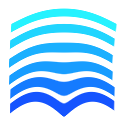
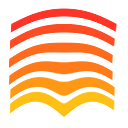
Theme tweak. Translations. Minor fixes.

diff --git a/src/components/JobTable.vue b/src/components/JobTable.vue
@@ -3,20 +3,20 @@
     <table class="table table-sm shadow-sm align-middle bg-white table-bordered table-hover">
       <thead class="bg-light">
       <tr>
-        <th style="width: 20px">Pid</th>
-        <th style="width: 50px">Channel</th>
-        <th class="align-bottom" style="width: 50px">File</th>
-        <th class="align-bottom d-none d-lg-table-cell" style="width: 60px">Task</th>
-        <th class="align-bottom" style="width:70px">Progress</th>
-        <th class="align-bottom" style="width:110px">Created</th>
-        <th class="align-bottom" style="width:50px">Destroy</th>
+        <th style="width: 20px">{{ $t("jobTable.col.pid") }}</th>
+        <th style="width: 50px">{{ $t("jobTable.col.channel") }}</th>
+        <th class="align-bottom" style="width: 50px">{{ $t("jobTable.col.file") }}</th>
+        <th class="align-bottom d-none d-lg-table-cell" style="width: 60px">{{ $t("jobTable.col.task") }}</th>
+        <th class="align-bottom" style="width:70px">{{ $t("jobTable.col.progress") }}</th>
+        <th class="align-bottom" style="width:110px">{{ $t("jobTable.col.created") }}</th>
+        <th class="align-bottom" style="width:50px">{{ $t("jobTable.col.destroy") }}</th>
       </tr>
       </thead>
       <tbody>
       <tr :key="i" v-for="(job, i) in jobs" :class="{'table-success': job.active}">
         <td class="text-end">
           <div v-if="job.active" style="width: 1rem; height: 1rem" class="spinner-border text-success" role="status">
-            <span class="visually-hidden">Loading...</span>
+            <span class="visually-hidden">{{ $t("jobTable.loading") }}</span>
           </div>
           {{ job.pid }}
         </td>
@@ -39,7 +39,7 @@
 
       <tr v-if="jobs.length === 0">
         <td colspan="7" class="text-center">
-          <h5 class="p-3">No Jobs</h5>
+          <h5 class="p-3">{{ $t("jobTable.noJobs") }}</h5>
         </td>
       </tr>
       </tbody>

diff --git a/src/components/navs/NavTop.vue b/src/components/navs/NavTop.vue
@@ -2,8 +2,8 @@
   <nav class="navbar navbar-expand-lg sticky-top shadow-sm m-0 d-flex bg-primary justify-content-between">
     <div class="container-fluid">
       <a class="navbar-brand d-none d-lg-block text-white fw-bold" href="/streams">
+        <img class="px-2" style="height: 28px; width: auto" src="/icon.png"/>
         <span class="d-none d-lg-inline p-2">{{ title }}</span>
-        <img style="height: 28px; width: auto" src="/icon.png"/>
       </a>
 
       <div class="navbar-collapse collapse px-2 mb-1" :class="{'d-none': collapseNav}" id="collapsibleNavbar">
@@ -37,7 +37,9 @@
       <button @click="$router.push('/jobs')" v-if="jobs.length > 0" type="button" class="position-relative me-2 btn btn-info" data-bs-toggle="dropdown" aria-expanded="false">
         {{ $t("menu.jobs") }} ({{ jobs.length }})
         <div v-if="jobs.length > 0" class="spinner-border text-dark spinner-border-sm" role="status">
-          <span class="visually-hidden">Loading...</span>
+          <span class="visually-hidden">
+            {{ $t("navtop.jobsLoading") }}
+          </span>
         </div>
       </button>
 
@@ -48,10 +50,10 @@
         </button>
         <button v-else class="btn btn-danger blink" @click="record(false)">
           <i class="bi bi-stop-fill"></i>
-          stop
+          {{ $t("navtop.stopRecording") }}
         </button>
         <button class="btn btn-success text-white ms-2" @click="$emit('add')">
-          Add Stream
+          {{ $t("navtop.addStream") }}
         </button>
       </div>
 
@@ -67,8 +69,8 @@
 import { defineComponent } from 'vue';
 import { DiskInfo, InfoApi } from '@/services/api/v1/infoApi';
 import { RecordingApi } from '@/services/api/v1/recordingApi';
-import { AxiosError } from 'axios';
 import { JobResponse } from '@/services/api/v1/jobApi';
+import { AxiosError } from 'axios';
 
 const recording = new RecordingApi();
 const info = new InfoApi();

diff --git a/src/views/SortView.vue b/src/views/SortView.vue
@@ -4,9 +4,12 @@
       <div class="col">
         <div class="d-flex justify-content-end">
           <div class="d-flex justify-content-center me-3">
+            <!-- filter row -->
             <div class="row g-3 align-items-center">
               <div class="col-auto">
-                <label for="limit" class="col-form-label fw-bold">Order By</label>
+                <label for="limit" class="col-form-label fw-bold">
+                  {{ $t("filter.label.orderBy") }}
+                </label>
               </div>
               <div class="col-auto">
                 <select class="form-select" v-model="filterColumn" @change="routeFilter">
@@ -14,7 +17,9 @@
                 </select>
               </div>
               <div class="col-auto">
-                <label for="limit" class="col-form-label fw-bold">Order</label>
+                <label for="limit" class="col-form-label fw-bold">
+                  {{ $t("filter.label.order") }}
+                </label>
               </div>
               <div class="col-auto">
                 <select class="form-select text-capitalize" v-model="filterOrder" @change="routeFilter">
@@ -22,7 +27,9 @@
                 </select>
               </div>
               <div class="col-auto">
-                <label for="limit" class="col-form-label fw-bold">Limit</label>
+                <label for="limit" class="col-form-label fw-bold">
+                  {{ $t("filter.label.limit") }}
+                </label>
               </div>
               <div class="col-auto">
                 <select id="limit" class="form-select" v-model="filterLimit" @change="routeFilter">
@@ -30,6 +37,7 @@
                 </select>
               </div>
             </div>
+            <!-- filter row -->
           </div>
           <button class="btn btn-primary" @click="routeFilter" v-if="$route.params.type==='random'">
             Refresh

diff --git a/src/i18n/messages.ts b/src/i18n/messages.ts
@@ -2,8 +2,61 @@ import en from './en';
 import de from './de';
 
 export const messages = {
-  en,
-  de,
+  en: {
+    menu: {
+      streams: 'Streams',
+      filter: 'Filter',
+      random: 'Random',
+      favs: 'Favs',
+      jobs: 'Jobs',
+      admin: 'Admin'
+    },
+    recording: {
+      durationMinutes: '{0}min',
+      ago: '{0}',
+      bitRate: 'Bitrate',
+      bitRateMBit: '{0}MBit',
+      resolution: 'Resolution',
+      started: 'Created',
+      convert: 'Convert'
+    },
+    navtop: {
+      addStream: 'Add Stream',
+      stopRecording: 'Stop',
+      jobsLoading: 'Loading...'
+    },
+    videoView: {
+      button: {
+        destroy: 'Delete'
+      }
+    },
+    filter: {
+      label: {
+        orderBy: 'Order By',
+        order: 'Order',
+        limit: 'Limit'
+      }
+    },
+    job: {
+      tab: {
+        workerJobs: 'Worker Jobs',
+        recordings: 'Recordings'
+      }
+    },
+    jobTable: {
+      col: {
+        pid: 'PID',
+        channel: 'Channel',
+        file: 'File',
+        task: 'Task',
+        progress: 'Progress',
+        created: 'Created',
+        destroy: 'Destroy',
+      },
+      loading: 'Loading...',
+      noJobs: 'No Jobs'
+    }
+  },
 };
 
 export const datetimeFormats = {

diff --git a/src/views/StreamItemView.vue b/src/views/StreamItemView.vue
@@ -23,18 +23,16 @@
     </div>
 
     <nav class="navbar fixed-bottom navbar-light bg-light border-info border-top">
-      <div class="container-fluid justify-content-between w-100">
+      <div class="container-fluid justify-content-end w-100">
         <div class="btn-group">
           <button v-if="selectedRecordings.length > 0" class="btn btn-danger" @click="destroySelection">Delete
             selected
           </button>
-        </div>
 
-        <div class="btn-group">
-          <button class="btn btn-danger me-3" @click="deleteChannel">
+          <button class="btn btn-danger me-3" @click="deleteChannel" v-if="selectedRecordings.length == 0">
             Delete Channel
           </button>
-          <button class="btn btn-primary text-white" @click="$refs.file.click()">
+          <button class="btn btn-primary text-white" @click="$refs.file.click()" v-if="selectedRecordings.length == 0">
             <input ref="file" name="file" v-show="false" accept="video/mp4" @change="submit" type="file">
             Upload Video
           </button>

diff --git a/src/views/VideoView.vue b/src/views/VideoView.vue
@@ -118,6 +118,8 @@ interface VideoData {
   segments: any[],
   baseUrl?: string;
   muted: boolean;
+  channelName: string;
+  filename: string;
   fileUrl?: string;
   playbackSpeed: number;
 }
@@ -127,14 +129,10 @@ const recording = new RecordingApi();
 export default defineComponent({
   components: { Stripe },
   inject: ['fileUrl'],
-  props: {
-    channelName: { type: String, required: true },
-    filename: { type: String, required: true },
-    pathRelative: { type: String, required: true },
-    previewStripe: String,
-  },
   data(): VideoData {
     return {
+      channelName: this.$route.params.channelName as string,
+      filename: this.$route.params.filename as string,
       markings: [],
       show: true,
       loaded: false,

diff --git a/src/views/JobView.vue b/src/views/JobView.vue
@@ -2,12 +2,12 @@
   <ul class="nav nav-tabs my-2" id="pills-tab" role="tablist">
     <li class="nav-item" role="presentation">
       <button class="nav-link active" id="pills-profile-tab" data-bs-toggle="pill" data-bs-target="#pills-profile" type="button" role="tab" aria-controls="pills-profile" aria-selected="false">
-        Worker Jobs
+        {{ $t("job.tab.workerJobs") }}
       </button>
     </li>
     <li class="nav-item" role="presentation">
       <button class="nav-link" id="pills-home-tab" data-bs-toggle="pill" data-bs-target="#pills-home" type="button" role="tab" aria-controls="pills-home" aria-selected="true">
-        Recordings
+        {{ $t("job.tab.recordings") }}
       </button>
     </li>
   </ul>

diff --git a/src/assets/custom-bootstrap.scss b/src/assets/custom-bootstrap.scss
@@ -2,7 +2,7 @@ $white: #ffffff;
 //$enable-rounded: false;
 
 $card-border-radius: 0;
-$border-radius: .2rem;
+$border-radius: .1rem;
 
 $card-cap-padding-y: 0;
 $card-cap-padding-x: 0;
@@ -11,9 +11,9 @@ $card-cap-padding-x: 0;
 }
 
 $theme-colors: (
-        "primary": #4b4e6d,
+        "primary": #6d4b6a,
         "secondary": #dcdcdd,
-        "success": #197278,
+        "success": #19785f,
         "info": #ab9db4,
         "warning": #e9c46a,
         "danger": #990d35,
@@ -24,7 +24,7 @@ $theme-colors: (
 $form-check-input-checked-bg-color: #4b4e6d;
 $form-check-input-checked-border-color: grey;
 
-$primary: #4b4e6d;
+$primary: #6d4b6a;
 $secondary: #dcdcdd;
 $success: #197278;
 $info: #ab9db4;

diff --git a/src/components/RecordInfo.vue b/src/components/RecordInfo.vue
@@ -10,12 +10,12 @@
       </span>
       <span class="text-secondary px-2">/</span>
       <span>
-        {{ $t("recording.ago", [createdAt]) }}
+        {{ $t("recording.ago", [ago]) }}
       </span>
     </li>
     <li v-if="expand" class="list-group-item d-flex justify-content-between">
       <span>{{ $t("recording.bitRate") }}</span>
-      <span>{{ $t("recording.bitRateMBit", [bitRate]) }}</span>
+      <span>{{ $t("recording.bitRateMBit", [(bitRate/1024/1024).toFixed(2)]) }}</span>
     </li>
     <li v-if="expand" class="list-group-item d-flex justify-content-between">
       <span>{{ $t("recording.resolution") }}</span> <span>{{ width }}x{{ height }}</span>

diff --git a/src/main.ts b/src/main.ts
@@ -4,13 +4,15 @@ import router from './route';
 import { store } from './store/index';
 import { i18n } from '@/i18n/i18n';
 
-const app = createApp(App).use(store);
+const app = createApp(App)
+  .use(store)
+  .use(i18n);
+
 app.provide('baseUrl', process.env.VUE_APP_BASE);
 app.provide('apiUrl', process.env.VUE_APP_APIURL);
 app.provide('fileUrl', process.env.VUE_APP_FILEURL);
 app.provide('socketUrl', process.env.VUE_APP_SOCKETURL);
 app.provide('build', process.env.VUE_APP_BUILD);
 app.use(router);
-app.use(i18n);
 
 app.mount('#app');

diff --git a/src/components/Stripe.vue b/src/components/Stripe.vue
@@ -264,10 +264,10 @@ export default defineComponent({
     }
   },
   unmounted() {
-    (this.$refs.stripe as HTMLDivElement).removeEventListener('wheel', this.resizePreview, true);
+    (this.$refs.stripe as HTMLDivElement)?.removeEventListener('wheel', this.resizePreview, true);
   },
   mounted() {
-    (this.$refs.stripe as HTMLDivElement).addEventListener('wheel', this.resizePreview, true);
+    (this.$refs.stripe as HTMLDivElement)?.addEventListener('wheel', this.resizePreview, true);
   }
 });
 </script>

diff --git a/src/vue-shim.d.ts b/src/vue-shim.d.ts
@@ -1,6 +1,6 @@
 /* eslint-disable */
 declare module '*.vue' {
-  import type { DefineComponent } from 'vue'
-  const component: DefineComponent<{}, {}, any>
-  export default component
+  import type { DefineComponent } from 'vue';
+  const component: DefineComponent<{}, {}, any>;
+  export default component;
 }
